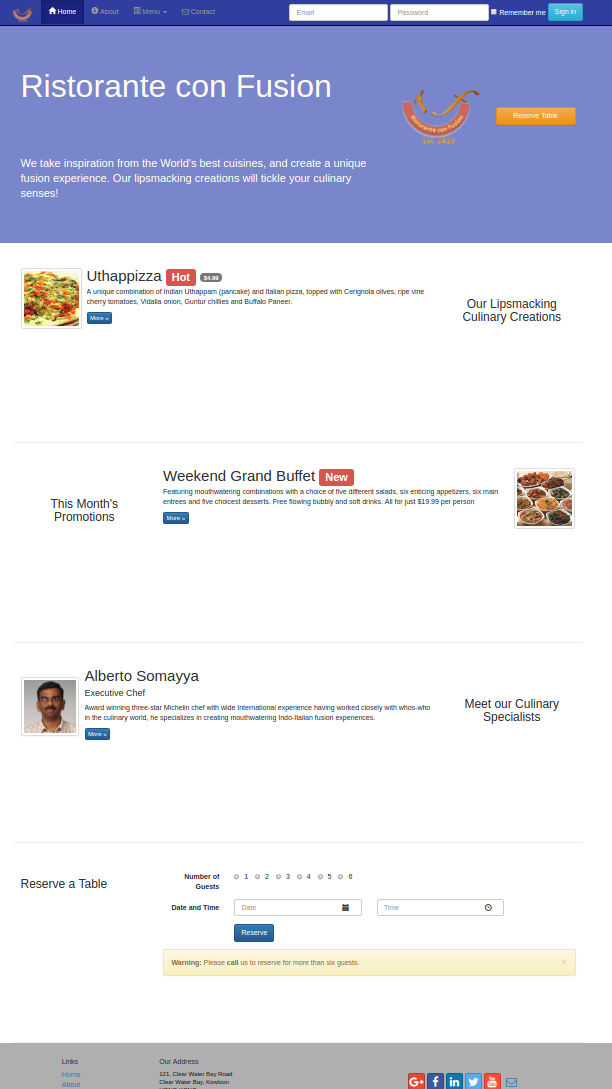
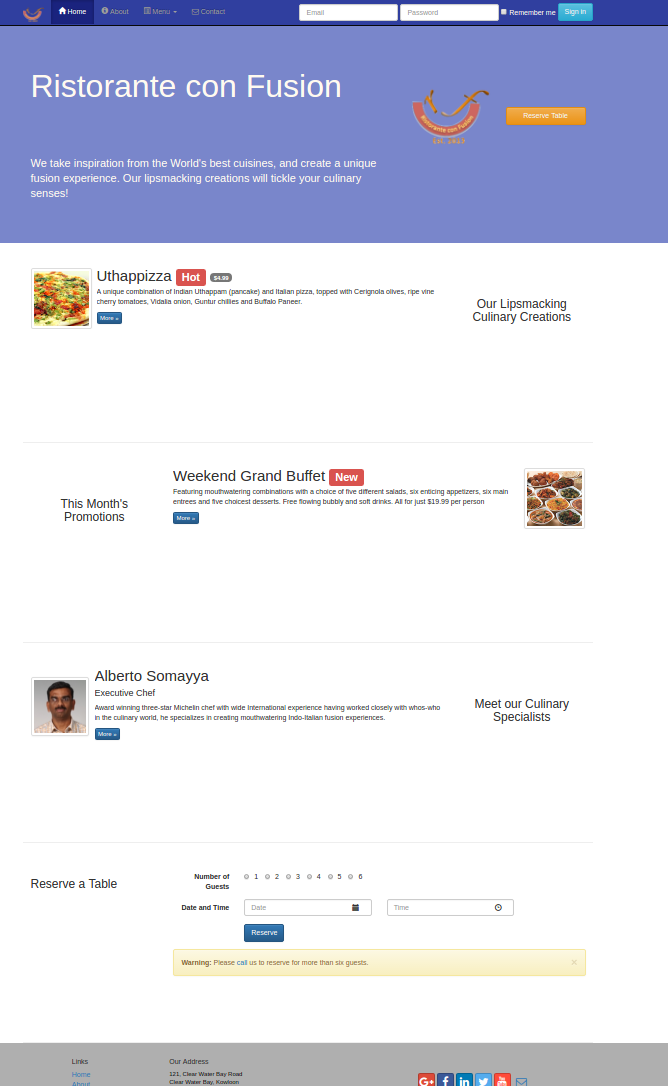
added telephone link to reservation alert

diff --git a/conFusion/index.html b/conFusion/index.html
@@ -169,12 +169,12 @@
             </div>
         </div>
 
-        <div class="row row-content">
+        <div class="row row-content" id="reserve">
             <div class="col-xs-12 col-sm-3">
                <h3>Reserve a Table</h3> 
             </div>
             <div class="col-xs-12 col-sm-9">
-                <form class="form-horizontal" id="reserve" role="form">
+                <form class="form-horizontal" role="form">
                     <div class="form-group">
                         <label for="guests" class="col-xs-12 col-sm-2 control-label">Number of Guests</label>
                         <div class="col-xs-12 col-sm-10">
@@ -213,7 +213,7 @@
                         <span aria-hidden="true">&times;</span>
                     </button>
                     <strong>Warning:</strong> Please 
-                    <strong>call</strong> us to reserve for more than six guests.
+                    <a href="tel:+85212345678">call</a> us to reserve for more than six guests.
                 </div>
             </div>
             <div class="col-xs-12 col-sm-3">
